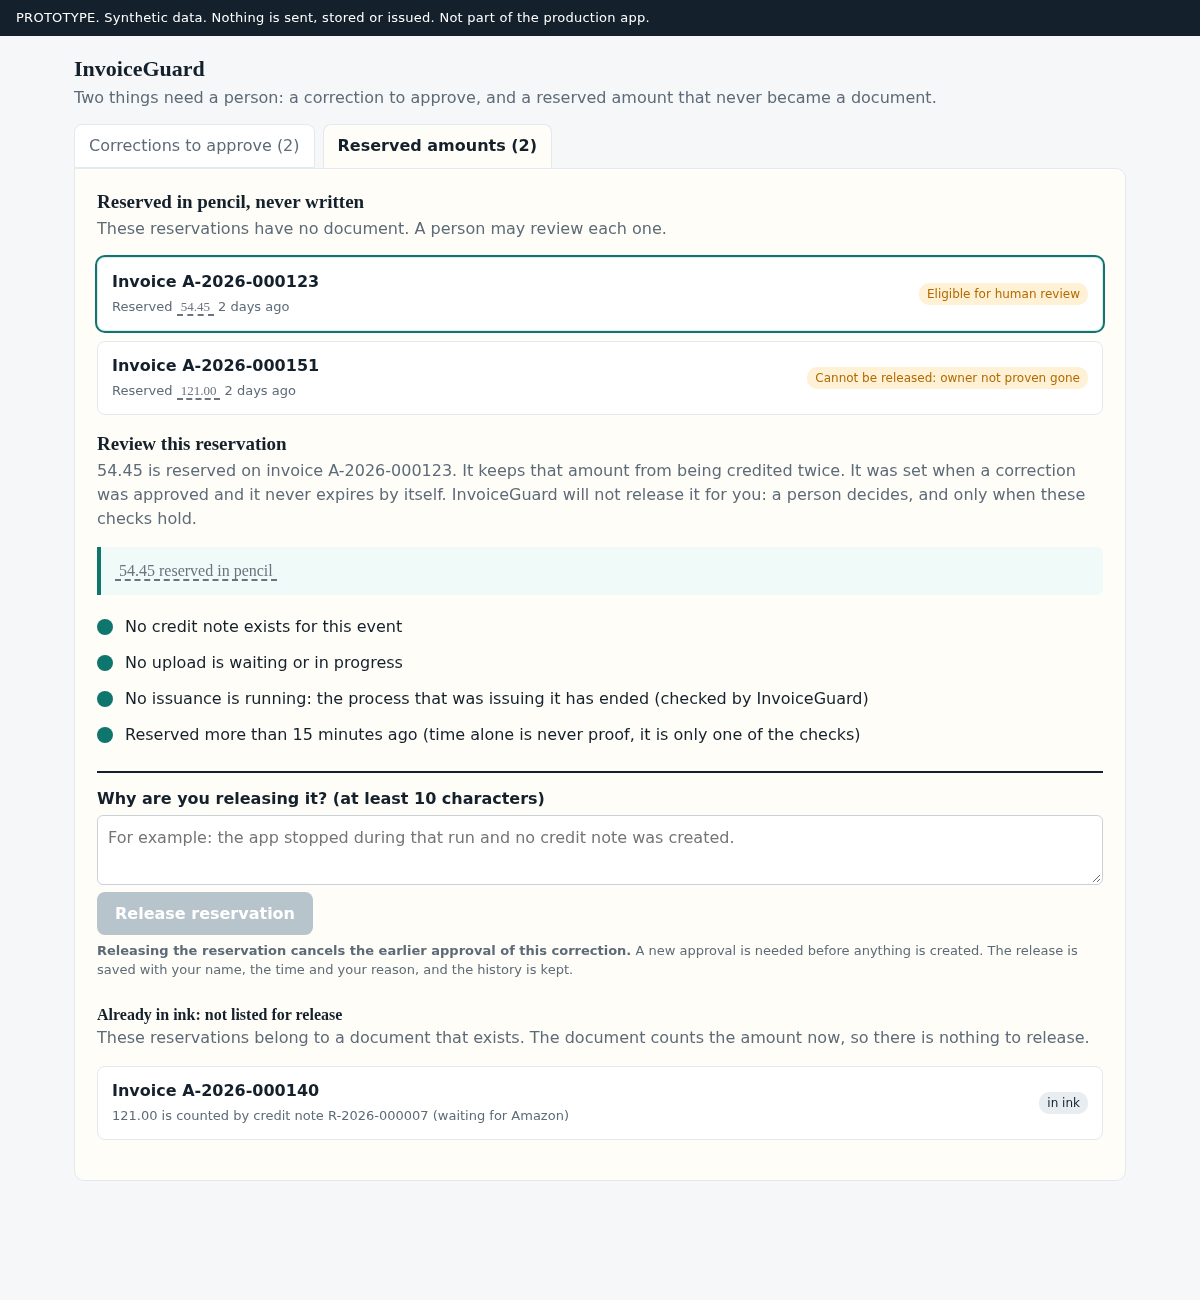
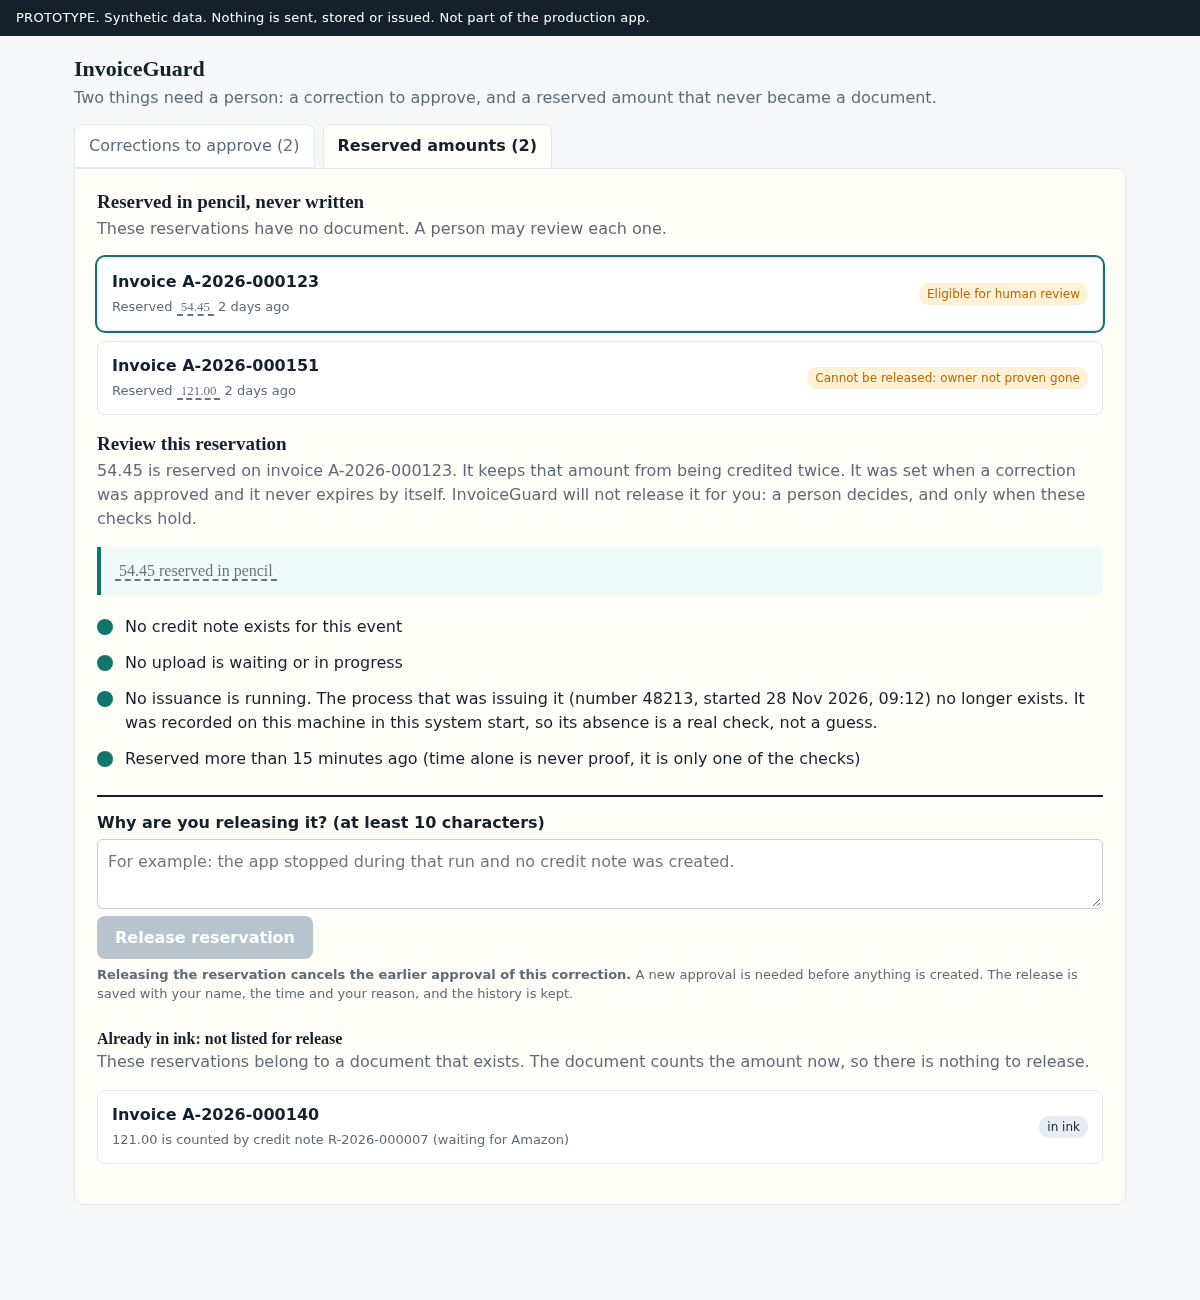
proto(decision-card): Valid / Invalid / Not available shown as distinct states; reviewer-readable reason for a proven or unproven issuance state

Changed region(s): [[0.0617, 0.5231, 0.8942, 0.8923], [0.8017, 0.5231, 0.8633, 0.5538], [0.74, 0.7077, 0.7708, 0.7692]]

diff --git a/prototype/decision-card/index.html b/prototype/decision-card/index.html
@@ -15,7 +15,7 @@ main{max-width:1100px;margin:0 auto;padding:0 24px 40px}.sheet{background:var(--
 .row{display:flex;justify-content:space-between;gap:10px;padding:4px 0;border-bottom:1px dotted var(--line);font-size:15px}.row:last-child{border:0}.row b{font-weight:600}
 .chg{background:linear-gradient(transparent 60%,#ffe08a 60%);padding:0 2px}.neg{color:var(--red)}
 .ribbon{position:absolute;top:-10px;right:10px;font-size:11px;padding:2px 8px;border-radius:10px;color:#fff}.ink{background:var(--ink)}.nib{background:var(--pri)}
-.vies{border-collapse:collapse;margin:8px 0;width:100%;font-size:14px}.vies caption{text-align:left;font-weight:600;padding:4px 0}.vies th,.vies td{border:1px solid #d9dee3;padding:6px 10px;text-align:left}.vies th{background:#f5f7f9;font-weight:600}.vies tr.now td,.vies tr.now th{background:#fff7e6}.small{font-size:12px;color:#5c6670}
+.vies{border-collapse:collapse;margin:8px 0;width:100%;font-size:14px}.vies caption{text-align:left;font-weight:600;padding:4px 0}.vies th,.vies td{border:1px solid #d9dee3;padding:6px 10px;text-align:left}.vies th{background:#f5f7f9;font-weight:600}.vies tr.now td,.vies tr.now th{background:#fff7e6}.vb{display:inline-block;padding:2px 8px;border-radius:12px;font-size:13px;border:1px solid}.vb.valid{background:#e6f6ee;border-color:#1a7f4b;color:#14633a}.vb.invalid{background:#fdeaea;border-color:#c0392b;color:#9b2c20}.vb.unavailable{background:#eef0f3;border-color:#6b7580;color:#444d57;border-style:dashed}.legend{list-style:none;padding:0;margin:6px 0;font-size:13px}.legend li{padding:2px 0}.small{font-size:12px;color:#5c6670}
 .sums{margin:14px 0;padding:12px 14px;border-left:4px solid var(--pri);background:#f0faf8;border-radius:0 6px 6px 0}.sums.warn{border-color:var(--amb);background:#fff7e6}
 .decide{margin-top:18px;border-top:2px solid var(--ink);padding-top:14px}.decide label{display:block;font-weight:600;margin-bottom:4px}
 textarea{width:100%;min-height:70px;font:inherit;padding:10px;border:1px solid #c9d2db;border-radius:6px}
@@ -57,7 +57,7 @@ function renderCard(){const c=CARDS.find(x=>x.id===cur);if(!c){$('#card').innerH
  <div class=doc style="border-style:dashed"><span class="ribbon nib">step 1</span><h3>Credit note</h3><p class=no>to be created</p>${rows(c.credit.lines)}<div class="row slip"><span>Total (incl. VAT)</span><b class=neg>${c.credit.total}</b></div></div>
  <div class=doc style="border-style:dashed"><span class="ribbon nib">step 3</span><h3>New invoice</h3><p class=no>to be created</p>${rows(c.repl.lines)}<div class="row slip"><span>Total (incl. VAT)</span><b>${c.repl.total}</b></div></div></div>
  ${buyerTable(c)}
- <div class="sums ${c.warn?'warn':''}"><div>Already credited on this invoice: ${c.balance.already}</div><div>Left to credit: ${c.balance.left}</div><div>This correction credits: ${c.balance.thisOne} (all of it)</div>${c.warn?`<div><b>${esc(c.warnText)}</b></div>`:''}</div>${c.vies?`<table class="vies"><caption>VAT number check (VIES) for ${esc(c.vies.vat)}</caption><tr><th></th><th>Result</th><th>Checked</th></tr><tr><th>Previous check</th><td>${esc(c.vies.previous.result)}</td><td>${esc(c.vies.previous.checkedAt)}</td></tr><tr class="now"><th>Current check</th><td>${esc(c.vies.current.result)}</td><td>${esc(c.vies.current.checkedAt)}</td></tr></table><p class="small">${esc(c.vies.note)}</p>`:''}
+ <div class="sums ${c.warn?'warn':''}"><div>Already credited on this invoice: ${c.balance.already}</div><div>Left to credit: ${c.balance.left}</div><div>This correction credits: ${c.balance.thisOne} (all of it)</div>${c.warn?`<div><b>${esc(c.warnText)}</b></div>`:''}</div>${c.vies?`<table class="vies"><caption>VAT number check (VIES) for ${esc(c.vies.vat)}</caption><tr><th></th><th>Result</th><th>Checked</th></tr><tr><th>Previous check</th><td>${badge(c.vies.previous)}</td><td>${esc(c.vies.previous.checkedAt)}</td></tr><tr class="now"><th>Current check</th><td>${badge(c.vies.current)}</td><td>${esc(c.vies.current.checkedAt)}</td></tr></table><ul class="legend">${c.vies.legend.map(l=>`<li>${badge({code:l[0],result:l[1]})} ${esc(l[2])}</li>`).join('')}</ul><p class="small">${esc(c.vies.note)}</p>`:''}
  <div class=decide><label for=why>Why are you deciding this? (at least 10 characters)</label><textarea id=why placeholder="For example: I compared the new name and address with the buyer's message in Amazon."></textarea>
  <div class=who><span>Deciding as: <b>reviewer-1</b></span><span id=when></span></div>
  <button class=go id=ok disabled>Approve this correction</button><button class=no id=no>Not now</button>
@@ -67,7 +67,8 @@ function renderCard(){const c=CARDS.find(x=>x.id===cur);if(!c){$('#card').innerH
  const t=$('#why'),b=$('#ok');t.oninput=()=>{b.disabled=t.value.trim().length<10};
  b.onclick=()=>{$('#st').style.display='block';$('#sm').textContent='by reviewer-1, reason saved, fingerprint 9f3a…c1 (prototype only)';b.disabled=true;t.disabled=true};
  $('#no').onclick=()=>{cur=null;renderList();renderCard()}}
-const CHECKS=p=>[['No credit note exists for this event',true],['No upload is waiting or in progress',true],p.issuance.proven?['No issuance is running: the process that was issuing it has ended (checked by InvoiceGuard)',true]:p.issuance.state==='alive'?['An issuance is still running: nothing can be released',false]:['It cannot be proven whether an issuance is running (no owner record, or it cannot be checked): nothing can be released',false],['Reserved more than 15 minutes ago (time alone is never proof, it is only one of the checks)',true]];
+const BADGE={valid:['\u2713','Valid'],invalid:['\u2717','Invalid'],unavailable:['?','Not available']};const badge=r=>`<span class="vb ${r.code}"><b>${BADGE[r.code][0]}</b> ${esc(r.result)}</span>`;
+const CHECKS=p=>[['No credit note exists for this event',true],['No upload is waiting or in progress',true],p.issuance.proven?['No issuance is running. '+p.issuance.why,true]:p.issuance.state==='alive'?['An issuance is still running: nothing can be released',false]:['It cannot be proven whether an issuance is running. '+p.issuance.why+' Nothing can be released.',false],['Reserved more than 15 minutes ago (time alone is never proof, it is only one of the checks)',true]];
 function renderPencil(){ const own=PENCIL.filter(p=>!p.owned),ink=PENCIL.filter(p=>p.owned);
  $('#pencillist').innerHTML=own.map(p=>`<div class=item role=button tabindex=0 data-id=${p.id} aria-current=${pcur===p.id}><span><b>Invoice ${p.invNo}</b><br><span class=hint>Reserved <span class=pencil>${p.amt}</span> ${p.since}</span></span><span class=tag>${p.issuance.proven?'Eligible for human review':'Cannot be released: owner not proven gone'}</span></div>`).join('')||'<p class=hint>None.</p>';
  $('#inklist').innerHTML=ink.map(p=>`<div class=item style="cursor:default"><span><b>Invoice ${p.invNo}</b><br><span class=hint>${p.amt} is counted by credit note ${p.doc} (${p.docState})</span></span><span class="tag ink">in ink</span></div>`).join('');

diff --git a/prototype/decision-card/data.js b/prototype/decision-card/data.js
@@ -181,13 +181,32 @@ window.PROTO_DATA={
    "vies": {
     "vat": "ESB76543210",
     "previous": {
+     "code": "valid",
      "result": "Valid",
      "checkedAt": "15 Nov 2026, 14:02"
     },
     "current": {
-     "result": "Not available (the VIES service did not answer)",
+     "code": "unavailable",
+     "result": "Not available",
      "checkedAt": "28 Nov 2026, 09:41"
     },
+    "legend": [
+     [
+      "valid",
+      "Valid",
+      "VIES confirmed the number."
+     ],
+     [
+      "invalid",
+      "Invalid",
+      "VIES answered that the number is not registered."
+     ],
+     [
+      "unavailable",
+      "Not available",
+      "VIES gave no answer. This says nothing about the number: it is not the same as Invalid."
+     ]
+    ],
     "note": "Demo values (synthetic). In the product both results and both times come from the saved check records."
    },
    "warnText": "The VAT number check (VIES) answered differently from when this card was first shown. Look at the VAT number again before you decide."
@@ -202,7 +221,8 @@ window.PROTO_DATA={
    "owned": false,
    "issuance": {
     "state": "gone",
-    "proven": true
+    "proven": true,
+    "why": "The process that was issuing it (number 48213, started 28 Nov 2026, 09:12) no longer exists. It was recorded on this machine in this system start, so its absence is a real check, not a guess."
    }
   },
   {
@@ -213,7 +233,8 @@ window.PROTO_DATA={
    "owned": false,
    "issuance": {
     "state": "unproven",
-    "proven": false
+    "proven": false,
+    "why": "No record says which process was issuing it, or it was recorded on another machine or system start. InvoiceGuard cannot tell whether an issuance is still running."
    }
   },
   {

diff --git a/prototype/decision-card/data.check.test.js b/prototype/decision-card/data.check.test.js
@@ -23,3 +23,12 @@ test('the Reserved amounts screen never says "No issuance is running" unless the
   assert.ok(d.pencil.some(p => !p.owned && p.issuance.proven === false), 'the demo includes an unproven case'); assert.ok(d.pencil.some(p => !p.owned && p.issuance.proven === true));
   assert.match(h, /p\.issuance\.proven\?\['No issuance is running/); assert.match(h, /okc/);
 });
+
+test('VIES results are three distinct states (Valid, Invalid, Not available), and Not available is explained as not being Invalid', () => {
+  const c = d.cards.find(x => x.vies); const codes = c.vies.legend.map(l => l[0]); assert.deepEqual(codes, ['valid', 'invalid', 'unavailable']);
+  for (const k of ['previous', 'current']) assert.ok(codes.includes(c.vies[k].code), k); assert.notEqual(c.vies.current.code, 'invalid', 'the demo no-answer is not shown as invalid');
+  assert.match(c.vies.legend.find(l => l[0] === 'unavailable')[2], /not the same as Invalid/); const h = readFileSync(new URL('./index.html', import.meta.url), 'utf8'); for (const k of codes) assert.match(h, new RegExp('\\.vb\\.' + k)); assert.match(h, /Not available/);
+});
+test('each reserved amount carries a reviewer-readable reason for its issuance state; "No issuance is running" appears only with a proven reason', () => {
+  for (const p of d.pencil.filter(x => !x.owned)) { assert.ok(p.issuance.why && p.issuance.why.length > 40, p.id); assert.doesNotMatch(p.issuance.why, /undefined|null|UTC/); if (p.issuance.proven) assert.match(p.issuance.why, /no longer exists/); else assert.match(p.issuance.why, /cannot tell|No record/); }
+});
